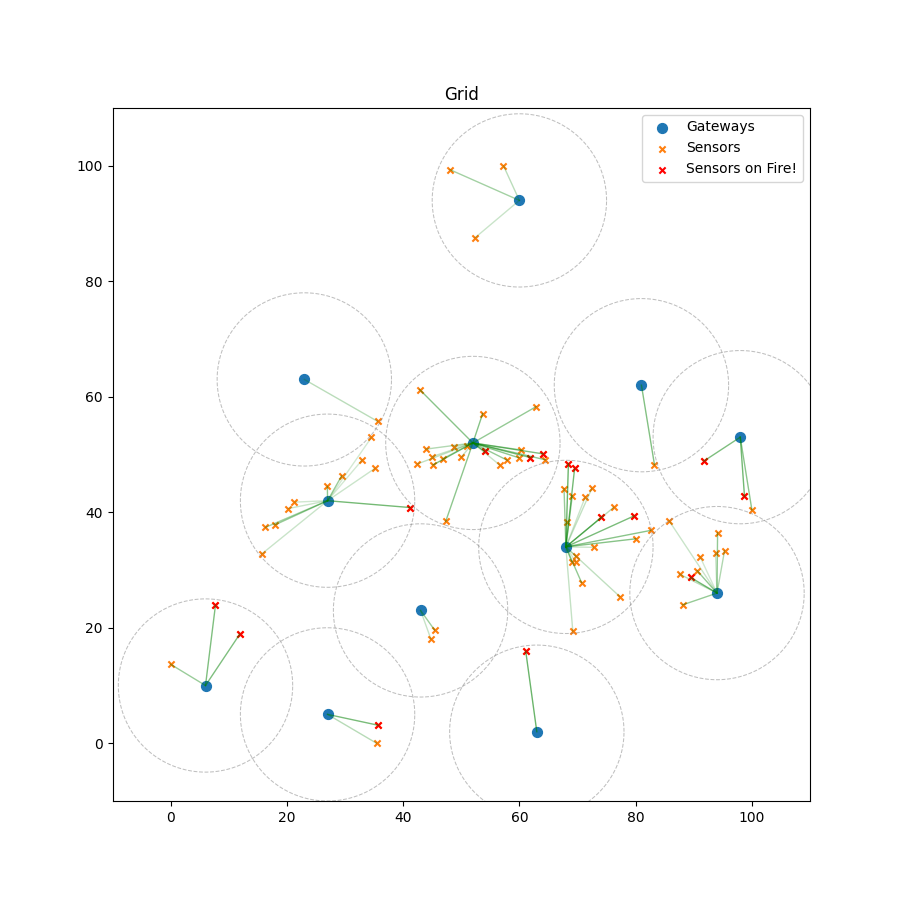
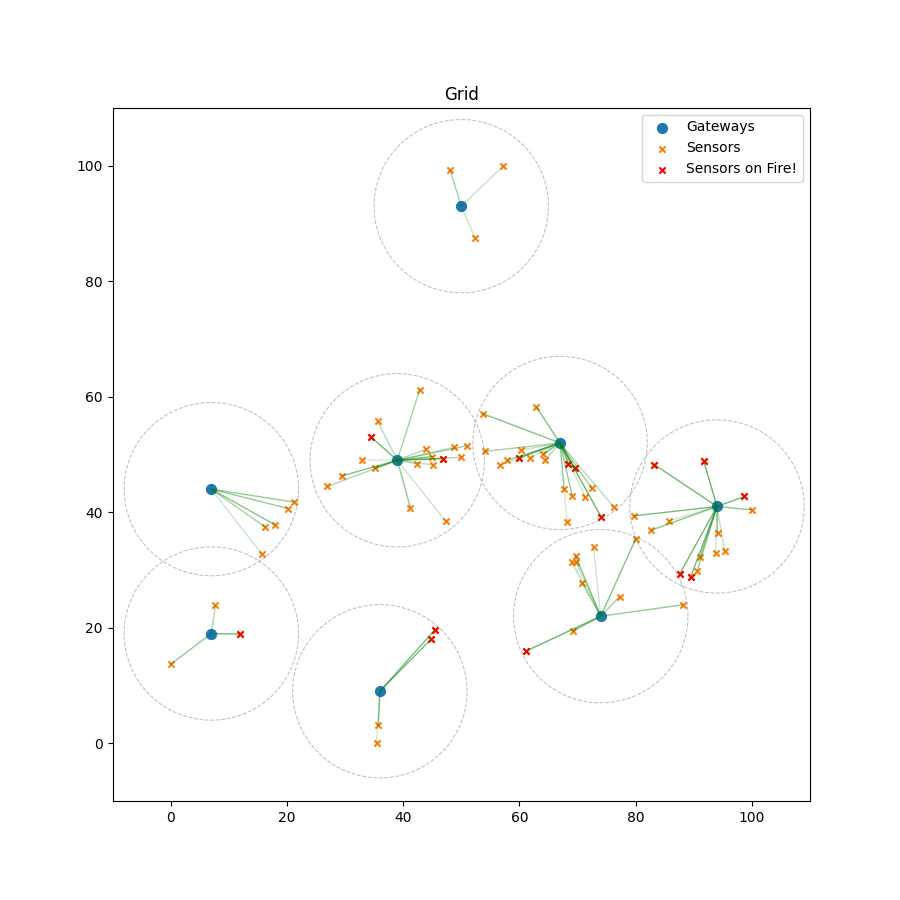
model development is fixed

diff --git a/functions/clustering.py b/functions/clustering.py
@@ -67,24 +67,22 @@ def develop_model(model:mip.model.Model, grid:Grid, sensor_set:set, gateway_loca
     # covering the sensors placed on the grid
     model.objective = mip.model.minimize(
         mip.model.xsum(
-            gateway_locations[gateway_y][gateway_x] * int(distance_condition(
-                sensor.get_x(), sensor.get_y(), gateway_x, gateway_y))
+            gateway_locations[gateway_y][gateway_x]
             for gateway_x in grid.get_width_as_range()
-            for gateway_y in grid.get_height_as_range()
-            for sensor in sensor_set))
+            for gateway_y in grid.get_height_as_range()))
 
     # A constraint for the model is that a sensor must be
-    # covered by at least 1 gateway
+    # covered exactly 1 Gateway
     for sensor in sensor_set:
         model.add_constr(mip.model.xsum(
             gateway_locations[gateway_y][gateway_x] * int(distance_condition(
                 sensor.get_x(), sensor.get_y(), gateway_x, gateway_y))
             for gateway_x in grid.get_width_as_range()
-            for gateway_y in grid.get_height_as_range()) >= 1)
+            for gateway_y in grid.get_height_as_range()) == 1)
 
     # A constraint for the model is that the average score
     # of the sensors covered by the same gateway should
-    # be at least 4 (maximum : 10)
+    # be at least 0.25 (maximum : 1)
     model.add_constr(mip.model.xsum(
         gateway_locations[gateway_y][gateway_x] * int(neg_avg_score_condition(
             gateway_x, gateway_y, sensor_set))
